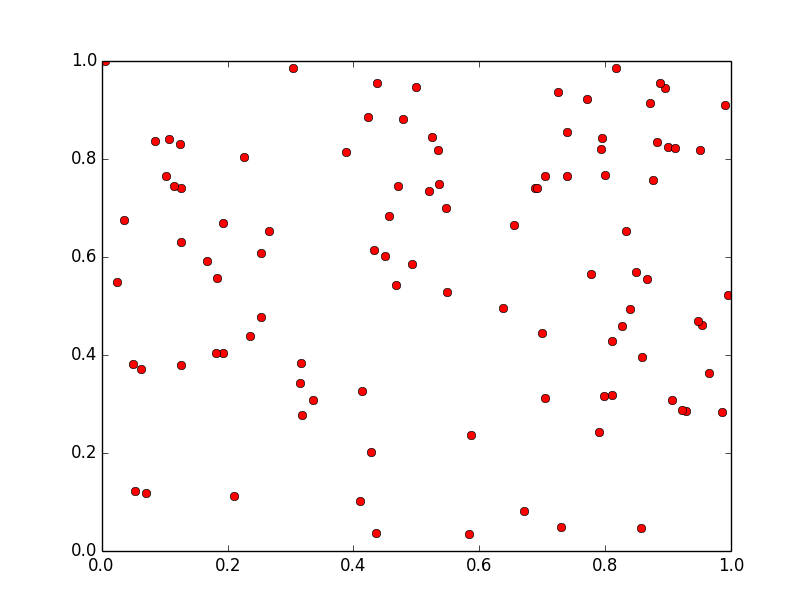
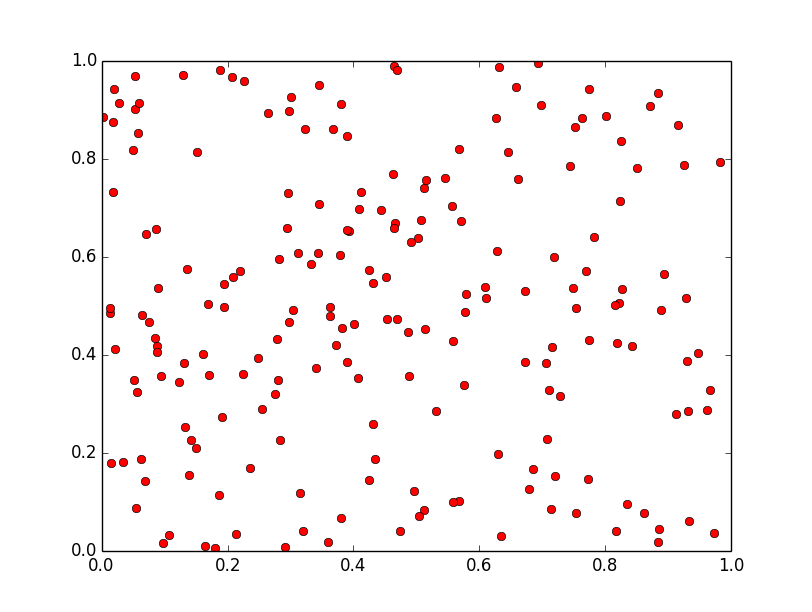
improved sobol docs

diff --git a/docs/user/solvers/sobol.rst b/docs/user/solvers/sobol.rst
@@ -10,19 +10,18 @@ sequences in up to 40 dimensions (e.g. 40 hyperparameters).
 The figures below show the differences between a Sobol sequence and sampling uniformly at random.
 
 .. figure:: sobol.png
-    :alt: 100 points sampled in 2D with a Sobol sequence.
+    :alt: 200 points sampled in 2D with a Sobol sequence.
 
-    100 points sampled in 2D with a Sobol sequence.
+    200 points sampled in 2D with a Sobol sequence.
 
 
 
 .. figure:: random.png
-    :alt: 100 points sampled in 2D uniformly at random.
+    :alt: 200 points sampled in 2D uniformly at random.
 
-    100 points sampled in 2D uniformly at random.
+    200 points sampled in 2D uniformly at random.
 
 The mathematical details on Sobol sequences are available in the following papers: [SOBOL]_, [SOBOL2]_, [ANTONOV]_, [BRATLEY]_, [FOX]_.
-
 
 .. [SOBOL] Ilya Sobol, USSR Computational Mathematics and Mathematical Physics, Volume 16, pages 236-242, 1977.
 
